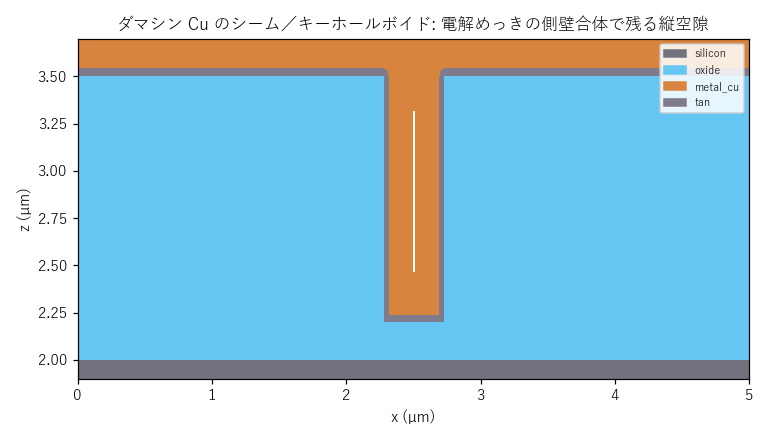
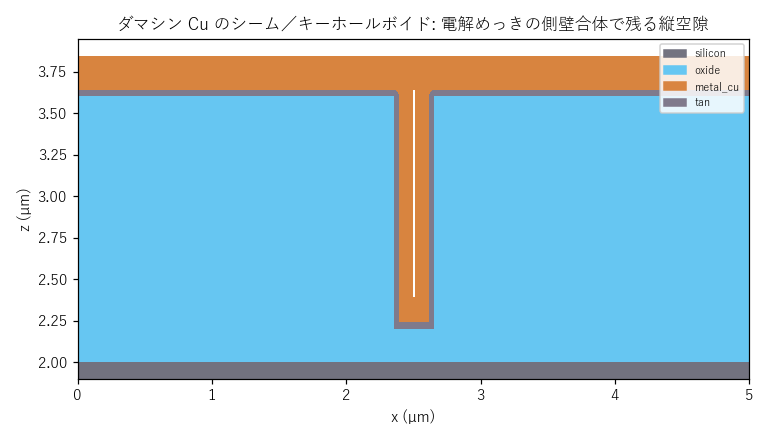
修正: Cu ダマシンのシームが中空に浮いた短い線になる (#93)
Fill(void_ar) のシーム空隙が、フィールド面から「ハーフ幅」下で切れて
中空に浮いた短い線になり不自然だった（上端 hi=field-hw_feat）。

実際のコンフォーマル成長では側壁が中央で合体し、底のボトムアップ充填の
頂点から口元（フィールド面の封止膜直下）まで縦に連続したシームが残る。
シーム上端を口元直下（field_level-1）まで延ばし、底の充填頂点から口元
まで連続する実形状にした。

マニュアルのダマシン Cu ボイド図はトレンチを狭く深く（高 AR）にして
シームがトレンチ高さの大半を占めるようにし、ylim も封止部まで表示。

回帰テスト追加（シームが連続しトレンチ高さの半分以上・口元近くまで達する）。
既存の Fill ボイドテスト・全 1013 緑。

diff --git a/tests/test_fill_void.py b/tests/test_fill_void.py
@@ -67,6 +67,48 @@ def test_void_roundtrip():
     assert Fill._from_params(d).void_ar == 8.0
 
 
+def test_seam_is_continuous_to_mouth():
+    """シームは底のボトムアップ充填頂点から口元付近まで縦に連続する。
+
+    中空に浮いた短い線でなく、トレンチ高さの大半を占める連続シームになること
+    （上端は封止膜直下、下端は底の充填頂点付近）を確認する。
+    """
+    cfg = WaferConfig(nx=60, ny=12, nz=80, pitch_um=0.05, substrate_um=1.0)
+    mask = Mask(shapes=[Shape("rect", {"x0": 0.45, "y0": 0.0, "x1": 0.55, "y1": 1.0})])
+    depth = 1.6
+    r = Recipe(config=cfg)
+    r.add(CVD(material="oxide", thickness_um=depth))
+    r.add(Photo(mask=mask, thickness_um=0.5, polarity="positive"))
+    r.add(DryEtch(targets=["oxide"], depth_um=depth))
+    r.add(Strip())
+    r.add(Fill(material="metal_cu", overfill_um=0.2, void_ar=1.5))
+    g = r.simulate().grid
+    cu = materials.get("metal_cu").id
+    y = cfg.ny // 2
+    # 埋没空気（上下を Cu で挟まれた）の z 範囲
+    sl = g[:, y, :]
+    void_z = []
+    for x in range(cfg.nx):
+        col = sl[:, x]
+        air = np.where(col == materials.AIR)[0]
+        cu_z = np.where(col == cu)[0]
+        if cu_z.size and air.size:
+            buried = air[(air > cu_z.min()) & (air < cu_z.max())]
+            void_z.extend(buried.tolist())
+    assert void_z, "シームが検出されない"
+    pitch = cfg.pitch_um
+    seam_lo, seam_hi = min(void_z) * pitch, max(void_z) * pitch
+    trench_top = 1.0 + depth                      # oxide 上面（フィールド面）
+    trench_bot = trench_top - depth               # トレンチ底
+    seam_height = seam_hi - seam_lo
+    # シームはトレンチ高さの半分以上を占める（浮いた短い線ではない）
+    assert seam_height > 0.5 * depth, f"シームが短すぎる: {seam_height:.2f}um"
+    # 上端は口元(フィールド面)近くまで達する
+    assert seam_hi > trench_top - 0.2, f"シーム上端が低い: {seam_hi:.2f} vs {trench_top}"
+    # 下端は底の充填頂点より上（底は埋まっている）
+    assert seam_lo > trench_bot, "シームが底まで開いている"
+
+
 def test_void_negative_raises():
     cfg = WaferConfig(nx=20, ny=20, nz=40, pitch_um=0.1, substrate_um=1.0)
     r = Recipe(config=cfg)

diff --git a/semisim/processes.py b/semisim/processes.py
@@ -2201,12 +2201,18 @@ class Fill(Process):
                     narrow = recess & (depth > self.void_ar * width)
                     centerline = hw >= (hw_feat - 0.5)
                     cand = narrow & centerline
-                    lo = z_top.astype(float) + hw_feat  # ボトムアップ充填上端
-                    hi = float(field_level) - hw_feat  # トップピンチオフ下端
+                    # コンフォーマル成長では側壁が中央で合体し、底のボトムアップ
+                    # 充填の頂点（z_top+ハーフ幅）から口元（フィールド面）まで縦に
+                    # 繋がったシームが残る。上端はオーバーフィル/CMP 前の被覆膜で
+                    # 封止される。中空に浮いた短い線でなく、底の充填部から口元まで
+                    # 連続する実際のシーム形状にする。
+                    lo = z_top.astype(float) + hw_feat  # ボトムアップ充填の頂点
+                    # 口元から 1 ボクセルだけ封止膜を残してシーム上端とする
+                    hi = float(field_level) - 1.0
                     void = (
                         cand[None, :, :]
                         & (z_idx > lo[None, :, :])
-                        & (z_idx <= hi[None, :, :])
+                        & (z_idx <= hi)
                         & (grid == mat_id)
                     )
                     grid[void] = materials.AIR

diff --git a/tools/build_manual.py b/tools/build_manual.py
@@ -552,7 +552,7 @@ def defect_section() -> tuple[str, str]:
     # 埋めるのが実プロセスなので、PVD ではなく Fill（void_ar）を使う。
     # 細かいボクセル(pitch=0.005µm)で薄いシームとバリア側壁を滑らかに描く。
     pitch = 0.005
-    width, depth = 0.45, 1.3
+    width, depth = 0.30, 1.4
     span = 1000 * pitch
     frac = width / span
     r = Recipe(config=WaferConfig(nx=1000, ny=10, nz=820, pitch_um=pitch, substrate_um=2.0))
@@ -567,7 +567,7 @@ def defect_section() -> tuple[str, str]:
     r.add(Fill(material="metal_cu", overfill_um=0.2, void_ar=1.6))  # Cu 電解めっき
     w = r.simulate()
     render(w, "ダマシン Cu のシーム／キーホールボイド: 電解めっきの側壁合体で残る縦空隙",
-           "defect_void.png", ylim=(1.9, 3.7))
+           "defect_void.png", ylim=(1.9, 3.95))
     vm = metrology.void_metrics(w)
     rep = metrology.defect_report(w)
     has_void = "検出" if vm["count"] > 0 else "なし"
